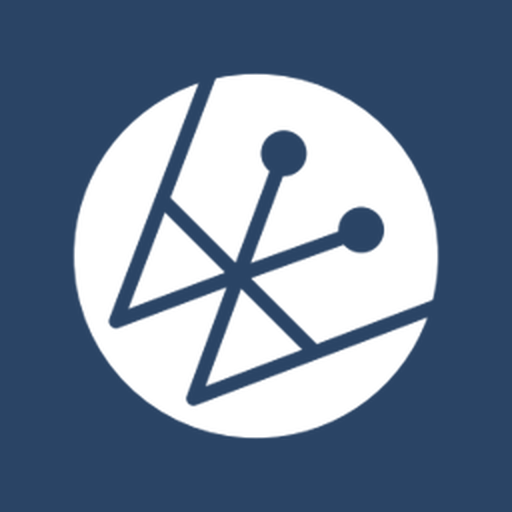
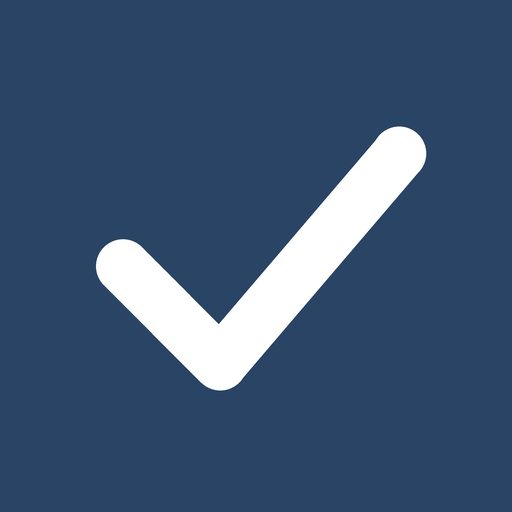
改用工地實景照片，移除 IWA 標誌
- 頂部橫幅：建築與草地照片，高度 clamp(132px,24vh,205px)，約佔版面 1/4
  上下壓深藍漸層，下緣化進頁面底色；填表頁收起以保留捲動空間
- 整頁底圖：淡水河與觀音山照片，固定不捲動，上蓋 90~95% 底色
  原圖人物位於右半部，裁切至 x=1005 完全避開
- 移除 IWA 標誌共六處：標題列標誌與分隔線、標題列浮水印、空白狀態標記圖、
  A4 列印表頭、Word 表頭、App 圖示；四個標誌圖檔一併刪除
- App 圖示改為深藍底白色勾號
- 列印時隱藏橫幅與底圖，維持白底黑字
- sw 快取版號 v2→v3，換成兩張照片

Changed region(s): [[0.125, 0.125, 0.875, 0.875]]

diff --git a/index.html b/index.html
@@ -21,6 +21,7 @@
   --font:"Noto Sans TC","Microsoft JhengHei","PingFang TC",sans-serif;
   --mono:ui-monospace,SFMono-Regular,Menlo,monospace;--r:12px;
   --shadow:0 1px 2px rgba(23,35,52,.05),0 2px 10px rgba(23,35,52,.045);
+  --wash1:rgba(242,245,249,.90);--wash2:rgba(242,245,249,.95);
 }
 @media (prefers-color-scheme:dark){:root{
   --bg:#0e141c;--surface:#19222e;--surface-2:#212c3a;--line:#2e3d50;
@@ -29,10 +30,14 @@
   --ok:#5fcf8e;--ok-soft:#14301f;--bad:#ff8a7e;--bad-soft:#331815;
   --na:#9aa8b8;--na-soft:#222c38;--warn:#e8b45c;--warn-soft:#2e2413;
   --shadow:0 1px 2px rgba(0,0,0,.3),0 2px 10px rgba(0,0,0,.25);
+  --wash1:rgba(14,20,28,.90);--wash2:rgba(14,20,28,.95);
   color-scheme:dark}}
 *{box-sizing:border-box}html,body{margin:0}
-body{background:var(--bg);color:var(--fg);font-family:var(--font);font-size:14px;
+html{background:var(--bg)}
+body{background:transparent;color:var(--fg);font-family:var(--font);font-size:14px;
   line-height:1.6;padding-bottom:5.5rem;-webkit-text-size-adjust:100%}
+body::before{content:"";position:fixed;inset:0;z-index:-1;
+  background:linear-gradient(var(--wash1),var(--wash2)),url(bg.jpg) center/cover no-repeat}
 .gut{padding-left:max(16px,env(safe-area-inset-left,0px));
   padding-right:max(16px,env(safe-area-inset-right,0px))}
 h1,h2,h3,h4{margin:0;line-height:1.3}
@@ -43,15 +48,19 @@ header{position:sticky;top:0;z-index:20;color:#fff;overflow:hidden;
   background:linear-gradient(135deg,var(--brand-ink) 0%,#24395a 55%,var(--brand) 100%);
   padding-top:calc(.6rem + env(safe-area-inset-top,0px));padding-bottom:.6rem;
   box-shadow:0 1px 0 rgba(255,255,255,.07) inset,0 2px 12px rgba(23,35,52,.22)}
-header::after{content:"";position:absolute;right:-2.6rem;top:-2.8rem;width:11rem;height:11rem;
-  background:url(mark-white.png) no-repeat center/contain;opacity:.1;pointer-events:none}
 header .wrap{display:flex;align-items:center;gap:.55rem;position:relative;z-index:1}
-header .brand{display:flex;align-items:center;gap:.55rem;min-width:0}
-header .brand img{height:19px;width:auto;flex:0 0 auto;display:block}
-header .bar{width:1px;height:1.5rem;background:rgba(255,255,255,.3);flex:0 0 auto}
 header h1{font-size:.98rem;font-weight:700;letter-spacing:.02em;white-space:nowrap}
-header .sub{font-size:.7rem;color:#b7c8de;font-family:var(--mono);margin-top:.1rem;
-  position:relative;z-index:1;overflow:hidden;text-overflow:ellipsis;white-space:nowrap}
+/* 橫幅：工地照片 */
+.hero{position:relative;height:clamp(132px,24vh,205px);
+  background:url(hero.jpg) center 58%/cover no-repeat;border-bottom:1px solid var(--line)}
+.hero::after{content:"";position:absolute;inset:0;
+  background:linear-gradient(180deg,rgba(30,51,80,.42) 0%,rgba(30,51,80,.06) 38%,
+    rgba(30,51,80,.30) 72%,var(--bg) 100%)}
+.hero .cap{position:absolute;left:0;right:0;bottom:.5rem;z-index:1;color:#fff;
+  text-shadow:0 1px 4px rgba(10,20,34,.75)}
+.hero .cap b{display:block;font-size:.96rem;font-weight:700;
+  overflow:hidden;text-overflow:ellipsis;white-space:nowrap}
+.hero .cap span{font-size:.7rem;font-family:var(--mono);opacity:.9}
 .spacer{flex:1 1 auto;min-width:0}
 .chipbtn{background:rgba(255,255,255,.15);border:1px solid rgba(255,255,255,.14);
   color:#fff;border-radius:999px;
@@ -141,8 +150,7 @@ th{background:var(--surface-2);font-weight:700;font-size:.76rem;white-space:nowr
   color:var(--fg-dim);letter-spacing:.04em}
 td.num{font-family:var(--mono);font-variant-numeric:tabular-nums;white-space:nowrap}
 .empty{text-align:center;padding:2.2rem 1rem;color:var(--fg-dim)}
-.empty img{width:4.4rem;opacity:.22;margin-bottom:.6rem}
-@media (prefers-color-scheme:dark){.empty img{filter:invert(1) brightness(1.6)}}
+.empty .big{font-size:2rem;margin-bottom:.4rem;opacity:.5}
 .toast{position:fixed;left:50%;transform:translateX(-50%);bottom:5.2rem;z-index:60;
   background:var(--fg);color:var(--bg);padding:.6rem 1rem;border-radius:999px;
   font-size:.85rem;max-width:88vw;text-align:center}
@@ -157,11 +165,11 @@ dialog::backdrop{background:rgba(0,0,0,.45)}
 #printArea{display:none}
 @media print{
   body{background:#fff;color:#000;padding:0}
-  header,.tabbar,main{display:none!important}
+  header,.tabbar,main,.hero{display:none!important}
+  body::before{display:none!important}
   #printArea{display:block;font-size:11pt}
   #printArea .phd{display:flex;align-items:flex-end;gap:8pt;
     border-bottom:1.6pt solid #2a4465;padding-bottom:3pt;margin-bottom:6pt}
-  #printArea .phd img{height:9mm}
   #printArea .phd .t{flex:1;text-align:center}
   #printArea .phd .t b{font-size:15pt;letter-spacing:.3em}
   #printArea .phd .t div{font-size:7pt;color:#5b6c82;letter-spacing:.08em}
@@ -178,17 +186,17 @@ dialog::backdrop{background:rgba(0,0,0,.45)}
 
 <header class="gut">
   <div class="wrap">
-    <div class="brand">
-      <img src="logo-white.png" alt="IWA" width="59" height="19">
-      <div class="bar"></div>
-      <h1>機電施工查驗</h1>
-    </div>
+    <h1>機電施工查驗</h1>
     <div class="spacer"></div>
     <button class="chipbtn" id="btnSite">✎ 工地</button>
     <button class="chipbtn" id="btnBackup">💾 備份</button>
   </div>
-  <div class="sub" id="hdSite">尚未設定工地</div>
 </header>
+
+<div class="hero" id="hero"><div class="cap gut">
+  <b id="hdSite">尚未設定工地</b>
+  <span id="hdVendor" hidden></span>
+</div></div>
 
 <main class="gut">
   <div id="offTip" class="banner" hidden>離線中：填表、拍照照常，資料存在這支手機裡。</div>
@@ -252,7 +260,7 @@ dialog::backdrop{background:rgba(0,0,0,.45)}
         <thead><tr><th>編號</th><th>日期</th><th>區域樓層</th><th>分項工程</th><th>流程</th>
           <th>位置</th><th>檢查人</th><th>合格</th><th>缺失</th><th>狀態</th><th></th></tr></thead>
         <tbody id="tbody"></tbody></table></div>
-      <div class="empty" id="tblEmpty"><img src="mark.png" alt=""><div>還沒有查驗紀錄</div></div>
+      <div class="empty" id="tblEmpty"><div class="big">🗂</div><div>還沒有查驗紀錄</div></div>
     </div>
   </section>
 </main>

diff --git a/app.js b/app.js
@@ -89,7 +89,12 @@ const CFG_KEY = "mepcheck.site";
 let CFG = { name: "", vendor: "", by: "" };
 try { Object.assign(CFG, JSON.parse(localStorage.getItem(CFG_KEY) || "{}")); } catch (e) {}
 function saveCfg() { try { localStorage.setItem(CFG_KEY, JSON.stringify(CFG)); } catch (e) {} }
-function paintSite() { $("hdSite").textContent = CFG.name || "尚未設定工地"; }
+function paintSite() {
+  $("hdSite").textContent = CFG.name || "尚未設定工地";
+  const v = $("hdVendor");
+  v.textContent = CFG.vendor || "";
+  v.hidden = !CFG.vendor;
+}
 
 /* ---------- IndexedDB ---------- */
 let idb = null;
@@ -127,6 +132,7 @@ async function urlFor(pid) {
 const views = ["vList", "vForm", "vAdmin"];
 function show(v) {
   views.forEach((x) => { $(x).hidden = x !== v; });
+  $("hero").hidden = v === "vForm";
   $("tabSite").setAttribute("aria-pressed", String(v !== "vAdmin"));
   $("tabAdmin").setAttribute("aria-pressed", String(v === "vAdmin"));
   window.scrollTo(0, 0);
@@ -304,7 +310,7 @@ function renderList() {
   sortRecs();
   const box = $("listBox");
   if (!records.length) {
-    box.innerHTML = `<div class="empty"><img src="mark.png" alt=""><div>尚未有查驗紀錄</div>
+    box.innerHTML = `<div class="empty"><div class="big">📋</div><div>尚未有查驗紀錄</div>
       <div class="tiny" style="margin-top:.3rem">按上方「新增查驗」開始第一筆</div></div>`;
     return;
   }
@@ -341,7 +347,7 @@ $("btnPrint").onclick = async () => {
       <div style="font-size:8pt">${esc(it.item)}　${esc(it.actual || "")}</div></div>`);
   }
   $("printArea").innerHTML = `
-    <div class="phd"><img src="logo.png" alt="IWA">
+    <div class="phd">
       <div class="t"><b>施工自主檢查表</b>
         <div>MEP SELF-INSPECTION CHECKLIST</div></div>
       <div class="n">${esc(draft.code || roc(draft.date))}</div></div>
@@ -502,13 +508,9 @@ $("exDocx").onclick = async () => {
   const p = (t, o) => new Paragraph({ children: [tx2(t, o)] });
   const cell = (t, w, b) => new TableCell({ width: { size: w, type: WidthType.DXA },
     children: [new Paragraph({ children: [tx2(t, { bold: b, size: 18 })] })] });
-  let logo = null;
-  try { logo = await (await fetch("logo.png")).arrayBuffer(); } catch (e) { logo = null; }
   const secs = [];
   for (const r of rows) {
     const kids = [];
-    if (logo) kids.push(new Paragraph({ children: [new ImageRun({ type: "png",
-      data: logo, transformation: { width: 142, height: 46 } })] }));
     kids.push(
       new Paragraph({ children: [tx2("施工自主檢查表", { bold: true, size: 30 })],
         alignment: AlignmentType.CENTER }),

diff --git a/sw.js b/sw.js
@@ -1,9 +1,9 @@
 /* 離線快取：App 外殼 + 匯出用函式庫 */
-const CACHE = 'mepcheck-v2';
+const CACHE = 'mepcheck-v3';
 const SHELL = [
   './', './index.html', './app.js', './manifest.webmanifest',
   './icon-192.png', './icon-512.png',
-  './logo.png', './logo-white.png', './mark.png', './mark-white.png',
+  './hero.jpg', './bg.jpg',
   'https://cdnjs.cloudflare.com/ajax/libs/xlsx/0.18.5/xlsx.full.min.js',
   'https://cdnjs.cloudflare.com/ajax/libs/jszip/3.10.1/jszip.min.js',
   'https://cdn.jsdelivr.net/npm/docx@8.5.0/build/index.umd.js'

diff --git a/README.md b/README.md
@@ -25,6 +25,13 @@
 | 照片打包 | zip，依 `編號_區域樓層-工項/自檢照片/01_管理項目.jpg` 歸檔 |
 | 自主檢查表 Word | .docx，表頭＋逐項表格＋照片頁，一次最多 20 份 |
 
+## 版面
+
+頂部橫幅與整頁底圖用的是工地實景照片（`hero.jpg` / `bg.jpg`）。要換照片就換掉這兩個檔，
+並把 `sw.js` 的 `CACHE` 版號往上加一號，手機下次開啟才會抓到新的。
+橫幅只出現在清單頁與後台頁，填表時會收起來把捲動空間留給逐項檢查。
+A4 列印與匯出的 Word 不放任何底圖。
+
 ## 檢查表範本
 
 5 個工項，管理項目與抽查標準取自本案 `13.施工查驗` 既有、監造已認可的自主檢查表：
